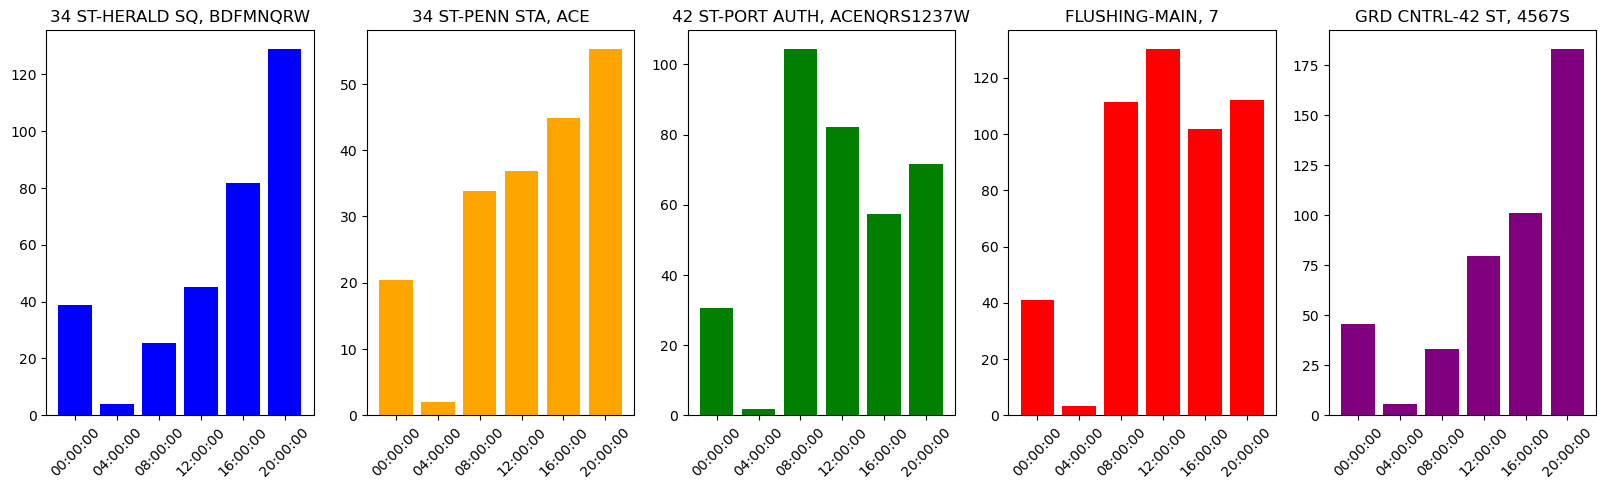
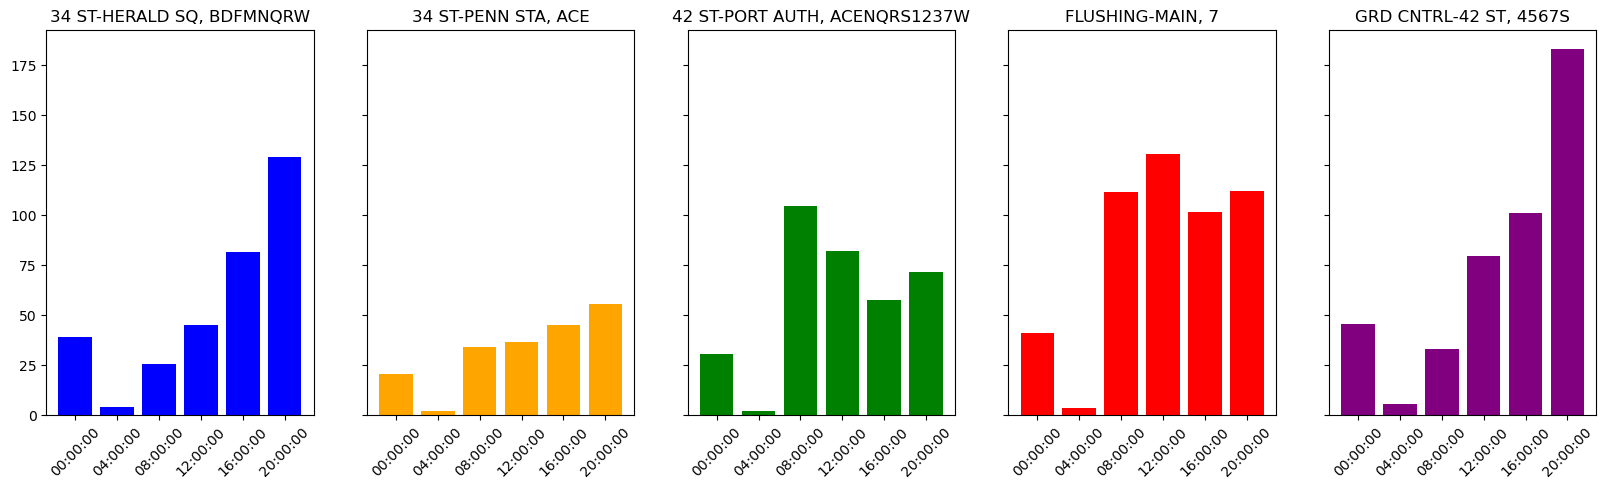
starting to finalize md, reran data to correct for weird beginning of 2020 numbers

diff --git a/mta_data_process.py b/mta_data_process.py
@@ -33,10 +33,6 @@ mask_shift = (turnstiles_daily.SCP.shift(1) != turnstiles_daily.SCP)
 turnstiles_daily.loc[mask_shift,'DAILY_TOT'] = np.nan
 
 
-##temp-to be removed
-turnstiles_daily.to_csv('turnstiles_daily.csv')
-
-##temp
 
 ## Organizes entries by station and creates a sum per station
 station_daily = (turnstiles_daily_cleaned
@@ -79,12 +75,13 @@ daily_by_station_dow_mean = (daily_by_station_top
 #######
 
 #Bar
-plt.figure(figsize=(10,5))
-plt.bar(station_daily_sum.STATION_LINE, station_daily_sum.DAILY_TOT_ABS, tick_label = station_daily_sum.STATION)
+color_lst = ['b','orange','g','r','purple','b','b','b','b','b','b','b','b','b','b',]
+plt.figure(figsize=(7,3))
+plt.bar(station_daily_sum.STATION_LINE, station_daily_sum.DAILY_TOT_ABS, tick_label = station_daily_sum.STATION, color = color_lst)
 plt.ylabel('# of Entries')
 plt.xlabel('Station')
 plt.xticks(rotation=45)
-plt.title('Total Sum of Entries by Station (02-06-2021-05-29-2021)')
+plt.title('Total Sum of Entries by Station (01/04/2020-12-26-2020)')
 
 plt.savefig('figs/tot_sum_by_stat.png', bbox_inches = 'tight')
 
@@ -144,7 +141,7 @@ plt.savefig('figs/fig_subplot.png', bbox_inches = 'tight')
 
 # Each stations mean entries by time of day
 color_lst = ['b','orange','g','r','purple']
-fig, axs = plt.subplots(1,5, figsize=(20,5))
+fig, axs = plt.subplots(1,5, figsize=(20,5), sharey = 'row')
 idx = 0
 for i, group in station_hourly_top.groupby('STATION_LINE'):
     axs[idx].bar(group['TIME'],group['HOURLY_AMT_ABS'], label = i, color = color_lst[idx])

diff --git a/deliverables/final_writeup.md b/deliverables/final_writeup.md
@@ -1,33 +1,33 @@
-# Using Data Analytics to Inform and Improve WTWY Fundraising and Outreach
+# Using Data Analytics to Inform and Improve WTWY Fundraising and Outreach Efforts
 Matt Ryan
 
 ## Abstract
 
-In this project, we are tasked with helping the non-profit organization, WomanTechWomanYes (WTWY), to both maximize attendance to their annual summer fundraising gala and spread awareness of their cause by using data analytics methods to optimize the deployment of their street teams. In order to aid WTWY in strategically scheduling their street teams to maximize engagement, we turned to New York City subway ridership [records](http://web.mta.info/developers/turnstile.html) and US census data to provide insight into both the most heavily trafficked stations, as well as the stations in areas with residents most likely/able to donate. 
+In this project, we are tasked with helping the non-profit organization, WomanTechWomanYes (WTWY), to both maximize attendance to their annual summer fundraising gala and spread awareness of their cause by using data analytics methods to optimize the deployment of their subway street teams. *In order to aid WTWY in strategically scheduling their street teams to maximize engagement*, we turned to New York City subway ridership [records](http://web.mta.info/developers/turnstile.html) and *US census data* to provide insight into both the most heavily trafficked stations, as well as the stations in areas with residents most likely/able to donate. 
 
 
 ## Design
-With women only making up 27% of STEM workers despite accounting for nearly half the US workforce and only earning 85% their male counterparts according to 2019 Census Bureau estimates, the mission of WTWY is an important one. As such, WTWY being able to achieve high public engagement with their subway street teams using a data-driven approach is critical. Using the MTA data available to us, it is possible to take a more granular *approach* to our understanding of NYC metro-ridership, identifying key insights into high-traffic stations, times of day, and overall trends.
+With women only making up 27% of STEM workers despite accounting for nearly half the US workforce and only earning 85% their male counterparts (according to 2019 [Census Bureau estimates](https://www.census.gov/library/stories/2021/01/women-making-gains-in-stem-occupations-but-still-underrepresented.html)), the mission of WTWY is an important one. As such, WTWY being able to achieve high public engagement with their subway street teams using a data-driven approach can be critical. Using the MTA data available to us, it is possible to take a more granular *approach* to our understanding of NYC metro-ridership, identifying key insights into high-traffic stations, times of day, and overall trends in metro traffic in the months leading up to the gala.
 
 
 ## Data
 
-The base dataset used here is comprised of 1 year's worth of NYC MTA turnstile audit [records](http://web.mta.info/developers/turnstile.html), with the first and last turnstile audits records beginning on dates 01/04/2020 and 12/26/2020, respectively. Of interest, each turnstile audit record includes the turnstile's station and linename, the date and time the record was collected ***(the second of which generally falling into 1 of 6 uniform windows throughout the day)***, and running sums of entries and exits. We were able to use these fields to group our turnstiles into more granular sets ***to provide more insight***, and ultimately used one of these slices to determine 5 stations on which we performed further exploration and analysis.
+The base dataset used here is comprised of the 2020 NYC MTA turnstile audit [records](http://web.mta.info/developers/turnstile.html), with the first and last turnstile audits record files beginning on dates 01/04/2020 and 12/26/2020, respectively. Of particular interest to us, each turnstile audit record includes the turnstile's associated station and line, the date and time the record was collected ***(the second of which generally falling into 1 of 6 uniform windows throughout the day)***, and running counts of entries and exits. We were able to use these fields to group our turnstiles into more granular sets, and ultimately used one of these slices to determine 5 stations of interest on which we performed further exploration and analysis.
 
 ## Algorithms
 
-*Exploratory Data Analysis*
-* Gathering data and setting up database
-	* A python [script](https://github.com/maneaterrbug/WTWY_metro_project_MR/blob/master/build_mta_db.py) was written and used in conjunction with SQLite3 to build a local database by dynamically cycling through all .csv files found on the MTA website dependent within the desired timeframe and importing into a table in the local database
-* Initial Cleaning
+***Exploratory Data Analysis***
+* **Gathering data and setting up database**
+	* A python [script](https://github.com/maneaterrbug/WTWY_metro_project_MR/blob/master/build_mta_db.py) was written and used in conjunction with SQLite3 to build a local database by dynamically cycling through all relevant .csv files found on the MTA website dependent within the desired timeframe and importing into a table in the local database
+* **Initial Cleaning**
 	* DATE to datetime
 	* STATION and LINE_NAME concatenated
-* Processing and manipulating our data 
+* **Processing and manipulating our data** - all cleaning and aggregation methods discussed here can be found in this python [script](https://github.com/maneaterrbug/WTWY_metro_project_MR/blob/master/mta_data_process.py)
 	* By sorting the data into two initial dataframes, one grouped by day and one by time of record, the total amount of passengers that entered per turnstile over the course of the desired timeframe was able to be calculated using a pandas.DataFrame.diff() call. 
 	* Using the daily dataframe, we were able to aggregate by unique station over our new entries value to determine the stations with the heaviest foot-traffic
 	* From this list of high-volume stations, we identified the top 5 most-visited stations and applied them as a mask on our original date and time dataframes
 	* Finally, aggregating functions such as .mean() and .sum() were applied to our newly organized dataframes to identify the most and least heavily trafficked days of the week and times of the day for each of our 5 stations
-* Final Cleaning
+* **Final Cleaning**
 	* During the course of the data processing and aggregation we discovered many abherrant records with potential to throw off any insights we might make
 	* The newly calculated .diff() entries fields brought to light several new discrepancies with our data including:
 		* reverse counting turnstiles leading to negative totals
